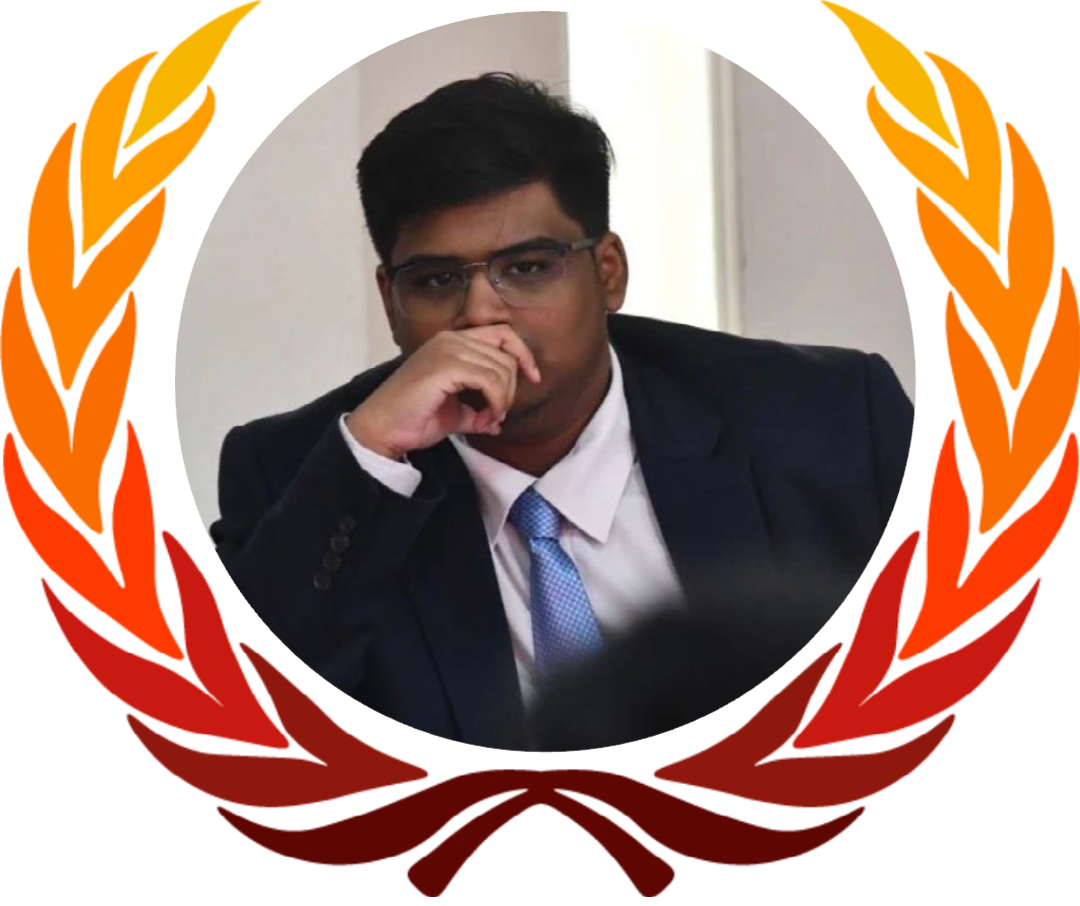
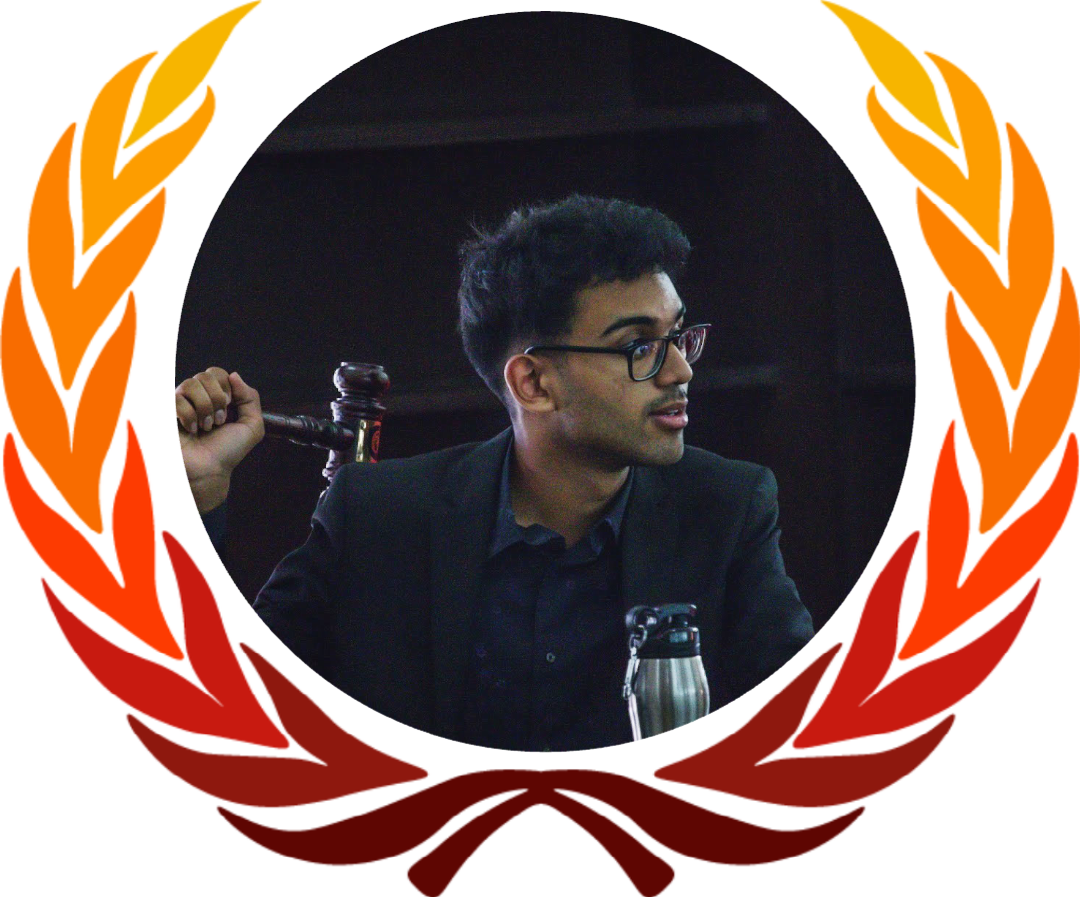
unsc pics + write up

Changed region(s): [[0.1528, 0.0, 0.8556, 0.8344], [0.2444, 0.6181, 0.275, 0.649]]

diff --git a/lib/pages/unsc_page.dart b/lib/pages/unsc_page.dart
@@ -16,8 +16,10 @@ class _UNSCState extends State<UNSC> {
       agenda: "Addressing the rapid escalation of tensions in Afghanistan\n[Freeze Date: October 6, 2001]",
       logoLink: "committee_page/UNSC.png",
       bgLink: "https://drive.google.com/file/d/1jG442BQskB8PictmgwO6T9pjIIkbo30F/view?usp=sharing",
-      executiveBoard: [["Eshwari Gundi","Vice chair","EB/UNSC2.png","Eshwari Gundi, the Vice Chair of UNSC, has been a passionate munner in the Bangalore circuit ever since her first MUN in the 7th grade sparked an insatiable thirst for global politics and diplomacy. You can often find her being the most dramatic in committee, although never lacking in strategy and research. Her love for negotiation and fiery debate is driven by her interest in current affairs, social justice, and literature. Crisis-driven committees like UNSC are where she feels most at home and will never decline an opportunity to prove another delegate wrong. Apart from MUN, she dabbles in photography and writing, directing most of her time to further pursue research about judicial prejudices to support her prospective career in law"],
-      ["Sunay Mittal","Moderator","EB/UNSC3.png","Sunay Mittal, the UNSC moderator is an overenthusiastic power delegate who loves to interact with people and get to know their perspectives, only to gaslight them into believing what he thinks should be done. From representing Syria in the Council of Women's Rights, China, and DPRK in the Security Council to the drug capital of Myanmar in UNODC, Sunay loves the opportunity to engage in controversy, while always keeping time to condemn Western propaganda. Recently winning his first Best Delegate at Iksha-Mun 2023, he has a near-perfect record of placing in 5 out of his 6 muns. Apart from straining his voice in committee, Sunay loves to over-dramatize any situation at hand while keeping himself busy with the sciences."]
+      executiveBoard: [["Rahul Prabhu","Head chair","EB/UNSC1.png","Rahul made his start in MUNS in the original running of the MSPMUN. 20 MUNs later, he has only failed to place in 3. He cannot wait to serve as a chair and this MUN's director- general watching delegates make their own mark (he's a bit more emotional than he admits). Often being the most outspoken (and irritating) delegate in the room, he loves lobbying and giving thunderous speeches - finding ways to make fun of half of the committee in the process. Frequently getting barred at a rate that rivals AIPPM delegates for making silly goofy jokes, he prefers committees like UNSC and DISEC where blackmail and ultimatums are considered acceptable forms of diplomacy. However, he never compromises on international law and regulations and scoffs at delegates who are all bark no bite. Outside of MUNs, he loves music, hockey and a plethora of other things (he swears he's interesting) and aspires to get into computers."],
+      ["Akshara Bhat","Co-chair","EB/UNSC2.png","With a seemingly inexhaustible tolerance for fruitless debates and a passion for politics, Akshara Bhat is always ready for a challenge. Apart from arguing way too much with anyone willing to partake, she spends her time reading books, writing film reviews, and trying to explore new corners of the city. Often known for being the most diplomatic and respectful delegate in committee, her tact has led her to win accolades at prestigious MUNs across India. Akshara is a firm believer in using MUN as a platform for change and invites the delegates for an enthralling and expeditious conference."],
+      ["Eshwari Gundi","Vice chair","EB/UNSC3.png","Eshwari Gundi, the Vice Chair of UNSC, has been a passionate munner in the Bangalore circuit ever since her first MUN in the 7th grade sparked an insatiable thirst for global politics and diplomacy. You can often find her being the most dramatic in committee, although never lacking in strategy and research. Her love for negotiation and fiery debate is driven by her interest in current affairs, social justice, and literature. Crisis-driven committees like UNSC are where she feels most at home and will never decline an opportunity to prove another delegate wrong. Apart from MUN, she dabbles in photography and writing, directing most of her time to further pursue research about judicial prejudices to support her prospective career in law"],
+      ["Sunay Mittal","Moderator","EB/UNSC4.png","Sunay Mittal, the UNSC moderator is an overenthusiastic power delegate who loves to interact with people and get to know their perspectives, only to gaslight them into believing what he thinks should be done. From representing Syria in the Council of Women's Rights, China, and DPRK in the Security Council to the drug capital of Myanmar in UNODC, Sunay loves the opportunity to engage in controversy, while always keeping time to condemn Western propaganda. Recently winning his first Best Delegate at Iksha-Mun 2023, he has a near-perfect record of placing in 5 out of his 6 muns. Apart from straining his voice in committee, Sunay loves to over-dramatize any situation at hand while keeping himself busy with the sciences."]
       ]
     );
   }

diff --git a/lib/pages/resources_page.dart b/lib/pages/resources_page.dart
@@ -56,7 +56,7 @@ class _ResourcesState extends State<Resources> {
                         ResourcesButton(
                           imagePath: 'background_guides.jpg',
                           websitePath:
-                              "https://drive.google.com/drive/folders/1RwZ3e7neBJbpix2aGPrwCbNfZbmhIeFA?usp=sharing",
+                              "https://docs.google.com/spreadsheets/d/1KP7v7Cq1djVBhAiXCL2chtdkW1-CCI44Iiwv2C54jSA/edit?usp=sharing",
                           name: "Country Matrix",
                         ),
                         ResourcesButton(
